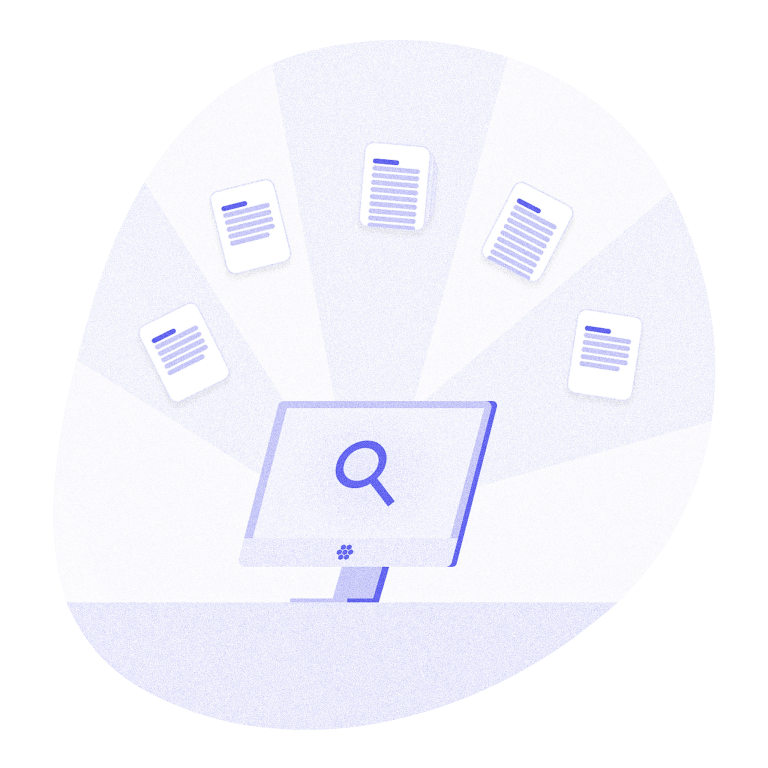
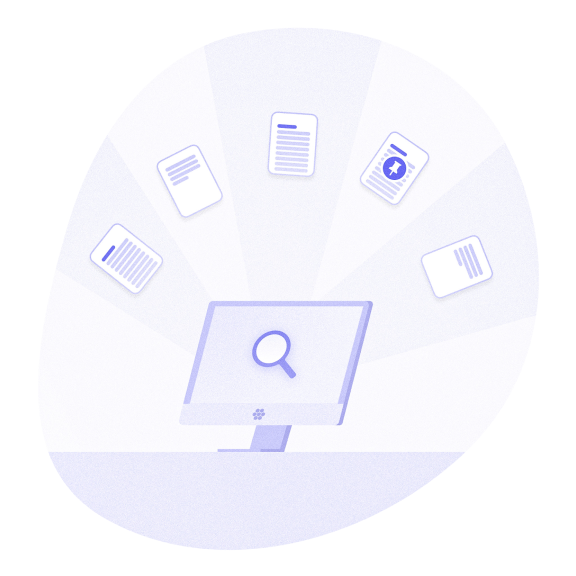
♻(frontend) misc improvements
- add opacity props on Box
- rename to cunningham-style.css
- update illustration-docs-empty.png
- smaller tooltip

diff --git a/src/frontend/apps/impress/src/components/Box.tsx b/src/frontend/apps/impress/src/components/Box.tsx
@@ -24,6 +24,7 @@ export interface BoxProps {
   $hasTransition?: boolean | 'slow';
   $height?: CSSProperties['height'];
   $justify?: CSSProperties['justifyContent'];
+  $opacity?: CSSProperties['opacity'];
   $overflow?: CSSProperties['overflow'];
   $margin?: MarginPadding;
   $maxHeight?: CSSProperties['maxHeight'];
@@ -65,6 +66,7 @@ export const Box = styled('div')<BoxProps>`
   ${({ $minHeight }) => $minHeight && `min-height: ${$minHeight};`}
   ${({ $maxWidth }) => $maxWidth && `max-width: ${$maxWidth};`}
   ${({ $minWidth }) => $minWidth && `min-width: ${$minWidth};`}
+  ${({ $opacity }) => $opacity && `opacity: ${$opacity};`}
   ${({ $overflow }) => $overflow && `overflow: ${$overflow};`}
   ${({ $padding }) => $padding && stylesPadding($padding)}
   ${({ $position }) => $position && `position: ${$position};`}

diff --git a/src/frontend/apps/impress/src/cunningham/cunningham-style.css b/src/frontend/apps/impress/src/cunningham/cunningham-style.css
@@ -1,3 +1,6 @@
+@import url('@gouvfr-lasuite/ui-kit/style');
+@import url('./cunningham-tokens.css');
+
 :root {
   /**
   * Input
@@ -32,4 +35,11 @@
   --c--components--button--border-radius--active: var(
     --c--components--button--border-radius
   );
+}
+
+/**
+ * Tooltip
+*/
+.c__tooltip {
+  padding: 4px 6px;
 }

diff --git a/src/frontend/apps/impress/src/pages/globals.css b/src/frontend/apps/impress/src/pages/globals.css
@@ -1,6 +1,4 @@
-@import url('@gouvfr-lasuite/ui-kit/style');
-@import url('../cunningham/cunningham-tokens.css');
-@import url('../cunningham/cunningham-custom-tokens.css');
+@import url('../cunningham/cunningham-style.css');
 @import url('@fontsource/material-icons');
 
 body {
